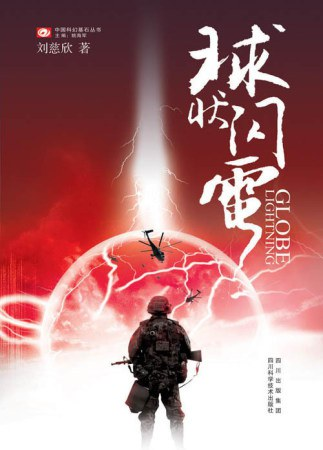
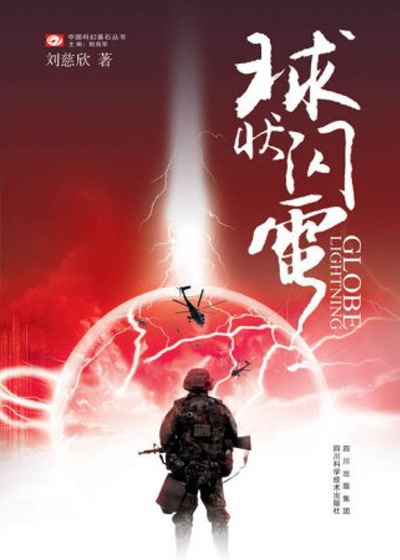
fix: mobile scroll + optimize covers to 400x560 + replace weicheng/2001space covers
- Mobile: .mobile-library overflow-y: auto + sticky header
- Covers: all cropped to 400x560 for consistent display
- weicheng.jpg: replaced with 人民文学出版社 edition
- 2001space.jpg: replaced with correct cover (was wrong book)

diff --git a/index.html b/index.html
@@ -290,14 +290,22 @@ body {
 .mobile-library { display: none; }
 
 /* ═══ Mobile Library View ═══ */
+.mobile-library {
+  height: 100vh;
+  overflow-y: auto;
+  -webkit-overflow-scrolling: touch;
+  padding-bottom: calc(var(--tabbar-height) + var(--mini-player-height));
+}
 .mobile-library-header {
   padding: 20px 20px 12px;
   display: flex; align-items: center; justify-content: space-between;
+  position: sticky; top: 0; z-index: 10;
+  background: var(--bg-primary);
 }
 .mobile-library-title { font-size: 24px; font-weight: 900; }
 .mobile-library-grid {
   display: grid; grid-template-columns: repeat(auto-fill, minmax(140px, 1fr));
-  gap: 16px; padding: 0 20px 160px;
+  gap: 16px; padding: 0 20px 40px;
 }
 .mobile-book-card { cursor: pointer; transition: transform 0.2s; }
 .mobile-book-card:active { transform: scale(0.96); }
